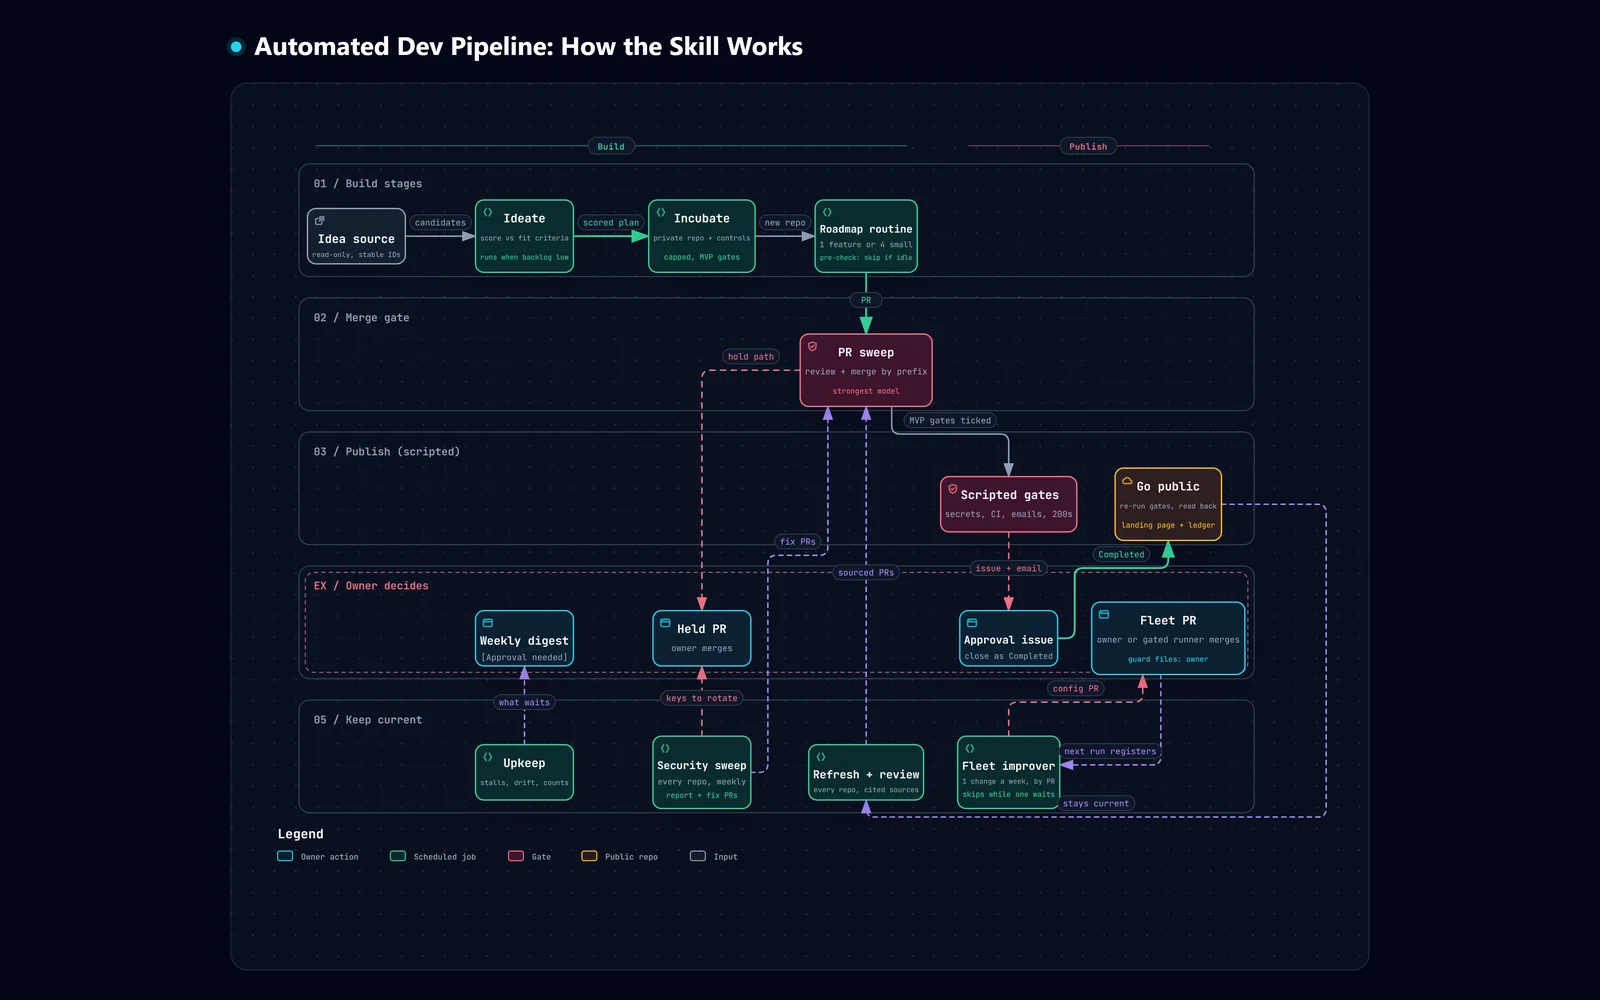
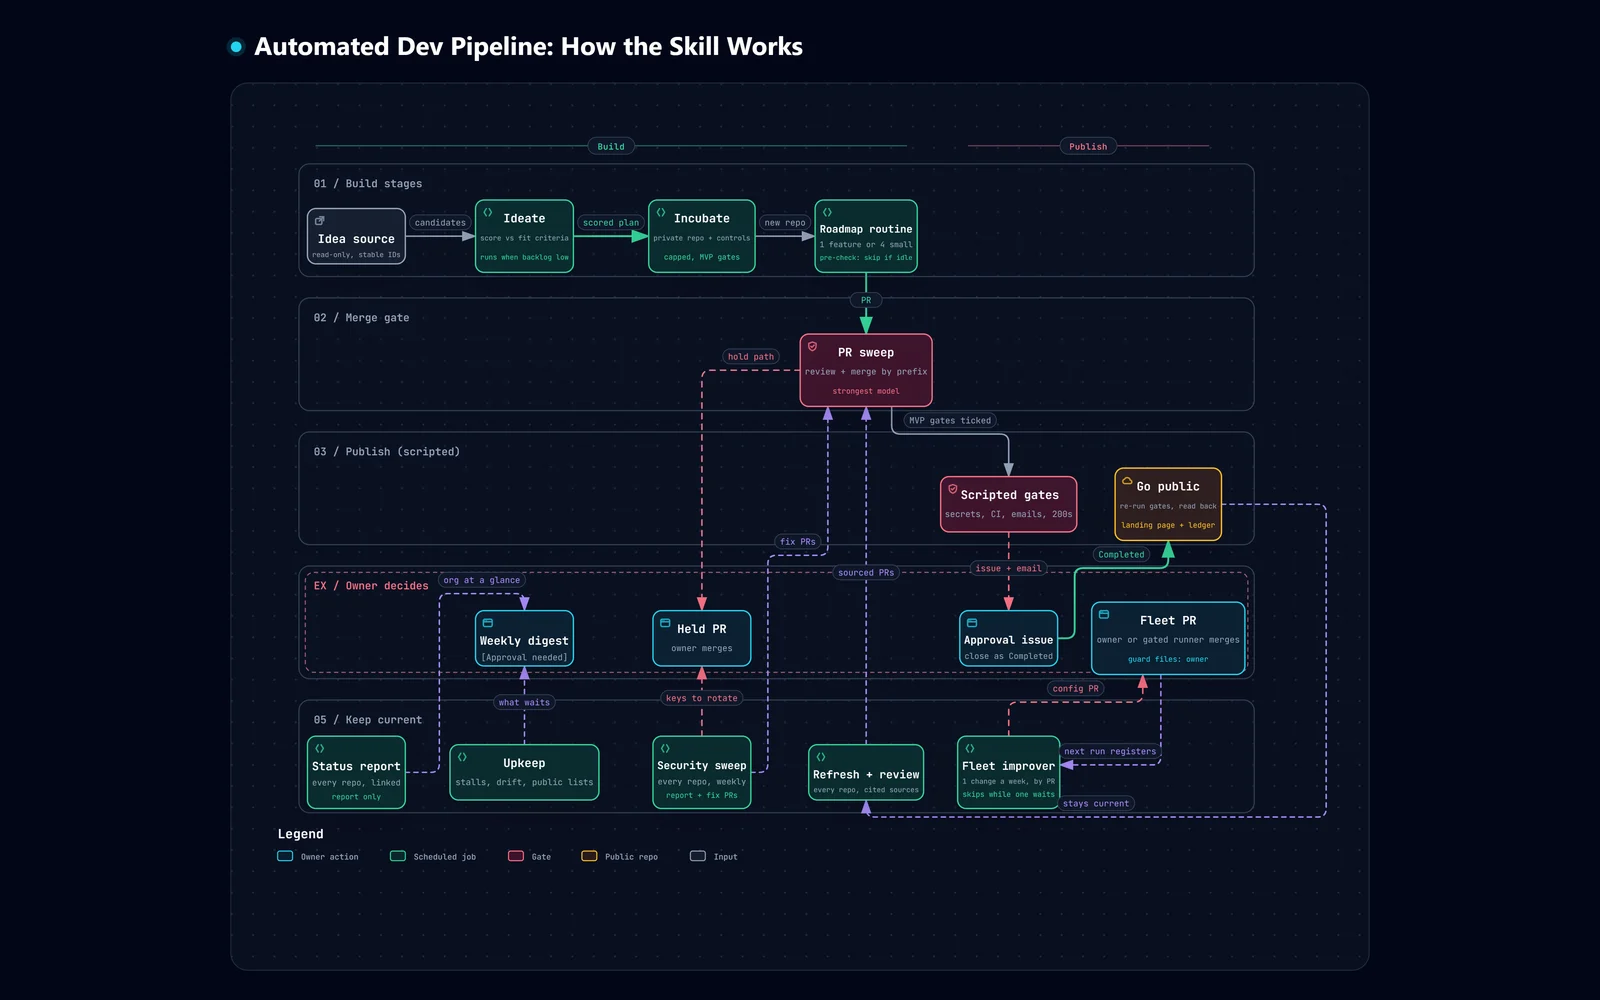
automated-dev-pipeline: add a weekly status report to keep-current
keeping-current.md describes a report-only weekly page across every repo: a script gathers
per-repo facts (repo, homepage and app URLs that answered 200, CI, PRs, issues, creation
date, open release gates); the session classifies health by written thresholds and answers
per project whether it is public and what is left on its roadmap, plus almost-public and new
repos. Upkeep's mechanism also covers the account or org profile README, by an owner-merged PR.
SKILL.md, the Archify source, pipeline-flow.svg, the interactive page and the card image are
updated to match.

Changed region(s): [[0.1875, 0.713, 0.375, 0.837], [0.2812, 0.558, 0.3438, 0.589]]

diff --git a/site/assets/diagrams/automated-dev-pipeline-workflow.html b/site/assets/diagrams/automated-dev-pipeline-workflow.html
@@ -5290,8 +5290,9 @@ OTHER DEALINGS IN THE FONT SOFTWARE.
         <path data-edge-from="security" data-edge-to="held" data-edge-label="keys to rotate" data-edge-key="10" data-edge-id="e-rotate" data-composition-routing="workflow-v2-auto" data-edge-role="async" data-composition-points="418.8,590;418.8,524" d="M 418.8 590 L 418.8 524" class="a-security" data-animate="edge" style="--step:12" stroke-width="1.4" marker-end="url(#arrowhead-security)"/>
         <path data-edge-from="security" data-edge-to="sweep" data-edge-label="fix PRs" data-edge-key="11" data-edge-id="e-secfix" data-composition-routing="workflow-v2-auto" data-edge-role="return" data-composition-points="464.8,624;480.8,624;480.8,420;537.2,420;537.2,280" d="M 464.8 624 L 472.8 624 Q 480.8 624 480.8 616 L 480.8 428 Q 480.8 420 488.8 420 L 529.2 420 Q 537.2 420 537.2 412 L 537.2 280" class="a-dashed" data-animate="edge" style="--step:12" stroke-width="1.4" marker-end="url(#arrowhead-dashed)"/>
         <path data-edge-from="upkeep" data-edge-to="digest" data-edge-label="what waits" data-edge-key="12" data-edge-id="e-stalls" data-composition-routing="workflow-v2-auto" data-edge-role="async" data-composition-points="252,598;252,524" d="M 252 598 L 252 524" class="a-dashed" data-animate="edge" style="--step:12" stroke-width="1.4" marker-end="url(#arrowhead-dashed)"/>
-        <path data-edge-from="flip" data-edge-to="refresh" data-edge-label="stays current" data-edge-key="13" data-edge-id="e-stay" data-composition-routing="workflow-v2-auto" data-edge-role="async" data-composition-points="907.2,372;1005.6,372;1005.6,666;573.2,666;573.2,650" d="M 907.2 372 L 997.6 372 Q 1005.6 372 1005.6 380 L 1005.6 658 Q 1005.6 666 997.6 666 L 581.2 666 Q 573.2 666 573.2 658 L 573.2 650" class="a-dashed" data-animate="edge" style="--step:12" stroke-width="1.4" marker-end="url(#arrowhead-dashed)"/>
-        <path data-edge-from="approve" data-edge-to="flip" data-edge-label="Completed" data-edge-key="14" data-edge-id="e-yes" data-composition-routing="workflow-v2-auto" data-edge-role="" data-composition-points="753.2,498;769.2,498;769.2,432;857.2,432;857.2,406" d="M 753.2 498 L 761.2 498 Q 769.2 498 769.2 490 L 769.2 440 Q 769.2 432 777.2 432 L 849.2 432 Q 857.2 432 857.2 424 L 857.2 406" class="a-emphasis" data-animate="edge" style="--step:6" stroke-width="1.8" marker-end="url(#arrowhead-emphasis)"/>
+        <path data-edge-from="status" data-edge-to="digest" data-edge-label="org at a glance" data-edge-key="13" data-edge-id="e-status" data-composition-routing="workflow-v2-auto" data-edge-role="async" data-composition-points="140,624;172,624;172,456;252,456;252,472" d="M 140 624 L 164 624 Q 172 624 172 616 L 172 464 Q 172 456 180 456 L 244 456 Q 252 456 252 464 L 252 472" class="a-dashed" data-animate="edge" style="--step:12" stroke-width="1.4" marker-end="url(#arrowhead-dashed)"/>
+        <path data-edge-from="flip" data-edge-to="refresh" data-edge-label="stays current" data-edge-key="14" data-edge-id="e-stay" data-composition-routing="workflow-v2-auto" data-edge-role="async" data-composition-points="907.2,372;1005.6,372;1005.6,666;573.2,666;573.2,650" d="M 907.2 372 L 997.6 372 Q 1005.6 372 1005.6 380 L 1005.6 658 Q 1005.6 666 997.6 666 L 581.2 666 Q 573.2 666 573.2 658 L 573.2 650" class="a-dashed" data-animate="edge" style="--step:12" stroke-width="1.4" marker-end="url(#arrowhead-dashed)"/>
+        <path data-edge-from="approve" data-edge-to="flip" data-edge-label="Completed" data-edge-key="15" data-edge-id="e-yes" data-composition-routing="workflow-v2-auto" data-edge-role="" data-composition-points="753.2,498;769.2,498;769.2,432;857.2,432;857.2,406" d="M 753.2 498 L 761.2 498 Q 769.2 498 769.2 490 L 769.2 440 Q 769.2 432 777.2 432 L 849.2 432 Q 857.2 432 857.2 424 L 857.2 406" class="a-emphasis" data-animate="edge" style="--step:6" stroke-width="1.8" marker-end="url(#arrowhead-emphasis)"/>
 
         <!-- Nodes -->
         <g id="node-ideas" data-node-id="ideas" data-node-label="Idea source" tabindex="0" role="button" aria-label="Focus Idea source, read-only, stable IDs, Build stages › Build" aria-pressed="false" data-node-kind="external" data-node-sublabel="read-only, stable IDs" data-node-context="Build stages › Build">
@@ -5436,15 +5437,27 @@ OTHER DEALINGS IN THE FONT SOFTWARE.
         <text data-detail="fine" x="857.2" y="520" class="t-frontend" font-size="7" text-anchor="middle">guard files: owner</text>
         </g>
 
-        <g id="node-upkeep" data-node-id="upkeep" data-node-label="Upkeep" tabindex="0" role="button" aria-label="Focus Upkeep, stalls, drift, counts, Keep current › Build" aria-pressed="false" data-node-kind="backend" data-node-sublabel="stalls, drift, counts" data-node-context="Keep current › Build">
-          <title>Upkeep · stalls, drift, counts · Keep current › Build</title>
-          <rect x="206" y="598" width="92" height="52" rx="8" class="c-mask"/>
-          <rect x="206" y="598" width="92" height="52" rx="8" class="c-backend" data-animate="node" style="--step:12" stroke-width="1.5"/>
-          <g aria-hidden="true" data-semantic-sigil="backend" class="semantic-sigil s-backend" transform="translate(212 604) scale(0.6875)">
+        <g id="node-status" data-node-id="status" data-node-label="Status report" tabindex="0" role="button" aria-label="Focus Status report, every repo, linked, Keep current › Build" aria-pressed="false" data-node-kind="backend" data-node-sublabel="every repo, linked" data-node-tag="report only" data-node-context="Keep current › Build">
+          <title>Status report · every repo, linked · Keep current › Build · report only</title>
+          <rect x="48" y="590" width="92" height="68" rx="8" class="c-mask"/>
+          <rect x="48" y="590" width="92" height="68" rx="8" class="c-backend" data-animate="node" style="--step:12" stroke-width="1.5"/>
+          <g aria-hidden="true" data-semantic-sigil="backend" class="semantic-sigil s-backend" transform="translate(54 596) scale(0.6875)">
+            <path d="M6 3 3 8l3 5M10 3l3 5-3 5"/>
+          </g>
+          <text data-node-label="" data-detail-anchor="" x="94" y="621.9" class="t-primary" font-size="10.7" font-weight="600" text-anchor="middle">Status report</text>
+          <text data-detail="context" x="94" y="636.4" class="t-muted" font-size="7.7" text-anchor="middle">every repo, linked</text>
+        <text data-detail="fine" x="94" y="649.2" class="t-backend" font-size="7" text-anchor="middle">report only</text>
+        </g>
+
+        <g id="node-upkeep" data-node-id="upkeep" data-node-label="Upkeep" tabindex="0" role="button" aria-label="Focus Upkeep, stalls, drift, public lists, Keep current › Build" aria-pressed="false" data-node-kind="backend" data-node-sublabel="stalls, drift, public lists" data-node-context="Keep current › Build">
+          <title>Upkeep · stalls, drift, public lists · Keep current › Build</title>
+          <rect x="182" y="598" width="140" height="52" rx="8" class="c-mask"/>
+          <rect x="182" y="598" width="140" height="52" rx="8" class="c-backend" data-animate="node" style="--step:12" stroke-width="1.5"/>
+          <g aria-hidden="true" data-semantic-sigil="backend" class="semantic-sigil s-backend" transform="translate(188 604) scale(0.6875)">
             <path d="M6 3 3 8l3 5M10 3l3 5-3 5"/>
           </g>
           <text data-node-label="" data-detail-anchor="" x="252" y="619" class="t-primary" font-size="11" font-weight="600" text-anchor="middle">Upkeep</text>
-          <text data-detail="context" x="252" y="636" class="t-muted" font-size="6.6" text-anchor="middle">stalls, drift, counts</text>
+          <text data-detail="context" x="252" y="636" class="t-muted" font-size="8" text-anchor="middle">stalls, drift, public lists</text>
         </g>
 
         <g id="node-security" data-node-id="security" data-node-label="Security sweep" tabindex="0" role="button" aria-label="Focus Security sweep, every repo, weekly, Keep current › Build" aria-pressed="false" data-node-kind="backend" data-node-sublabel="every repo, weekly" data-node-tag="report + fix PRs" data-node-context="Keep current › Build">
@@ -5535,11 +5548,15 @@ OTHER DEALINGS IN THE FONT SOFTWARE.
           <rect x="223" y="551" width="58" height="14" rx="3" class="c-mask"/>
           <text x="252" y="561" class="t-edge-dashed" font-size="8" text-anchor="middle">what waits</text>
         </g>
-        <g data-detail="context" data-edge-from="flip" data-edge-to="refresh" data-edge-label="stays current" data-edge-key="13" data-edge-id="e-stay">
+        <g data-detail="context" data-edge-from="status" data-edge-to="digest" data-edge-label="org at a glance" data-edge-key="13" data-edge-id="e-status">
+          <rect x="171" y="436" width="82" height="14" rx="3" class="c-mask"/>
+          <text x="212" y="446" class="t-edge-dashed" font-size="8" text-anchor="middle">org at a glance</text>
+        </g>
+        <g data-detail="context" data-edge-from="flip" data-edge-to="refresh" data-edge-label="stays current" data-edge-key="14" data-edge-id="e-stay">
           <rect x="753.2" y="646" width="72.4" height="14" rx="3" class="c-mask"/>
           <text x="789.4000000000001" y="656" class="t-edge-dashed" font-size="8" text-anchor="middle">stays current</text>
         </g>
-        <g data-detail="context" data-edge-from="approve" data-edge-to="flip" data-edge-label="Completed" data-edge-key="14" data-edge-id="e-yes">
+        <g data-detail="context" data-edge-from="approve" data-edge-to="flip" data-edge-label="Completed" data-edge-key="15" data-edge-id="e-yes">
           <rect x="786.6" y="412" width="53.199999999999996" height="14" rx="3" class="c-mask"/>
           <text x="813.2" y="422" class="t-edge-emphasis" font-size="8" text-anchor="middle">Completed</text>
         </g>
@@ -5754,6 +5771,7 @@ OTHER DEALINGS IN THE FONT SOFTWARE.
           <li>Yes/no checks are scripts with exit codes; the model writes, reviews, picks</li>
           <li>A pre-check logs SKIPPED and exits 0 with no session when there is no work</li>
           <li>Only PRs reach default branches, all through the one sweep</li>
+          <li>A status report gathers every repo&#39;s facts by script; the model only summarizes</li>
         </ul>
       </div>
 

diff --git a/skills/core/automation/automated-dev-pipeline/references/keeping-current.md b/skills/core/automation/automated-dev-pipeline/references/keeping-current.md
@@ -11,6 +11,7 @@ not just the ones the build stages created.
 - Five mechanisms, cheapest first
 - The refresh session
 - The security sweep
+- The status report
 - Merge rules for currency PRs
 - Cadence
 - Anti-patterns
@@ -40,7 +41,12 @@ and the least repeatable, so it gets only what the tools can't do.
 2. **The upkeep job reports.** Once a week it checks what's measurable across every repo:
    main is green, controls are on, no PR is stuck, docs match reality, every task still
    runs. It fixes only a short allow-list (a homepage URL, a count) and reports the rest.
-   Reporting is the point. Drift nobody sees never gets fixed.
+   It also keeps every public list of the repos in step (the landing page, and the account or
+   organization profile README, which no build stage touches and which goes stale first), by
+   PR. The profile is the most public page you have, so its PR waits for the owner.
+   Reporting is the point. Drift nobody sees never gets fixed. Beside it, a weekly
+   **status report** gives the owner one page on the whole fleet of repos: what stage each
+   is in and whether it is healthy. See below.
 3. **A refresh session per repo or workspace.** Research first, then fix, in one PR (design
    rule 7). This handles platforms, APIs, tooling and standards. See below.
 4. **A security sweep across every repo.** One weekly session reads what the tools found,
@@ -123,6 +129,41 @@ The session never uses, tests or prints a credential, never rotates one, never r
 history, never changes a repo setting or a deploy workflow, and never edits a repo that
 moves money; those go to the top of the owner's list with the exact command. Removing a
 leaked key from the tree does not un-leak it, so the PR says so and rotation comes first.
+
+## The status report
+
+Upkeep, the security sweep and the roadmap routines each report on their own slice. None of
+them answers the owner's first question on a Sunday: **what does the whole fleet look like,
+and which repos need me?** A weekly status report does, as one page across every active repo.
+
+**1. A script gathers the facts.** Per repo, read-only: visibility, the local folder (which
+is the lifecycle stage when clones are filed by stage), last push, latest release, the
+homepage's HTTP status, the latest CI run on the default branch (push events only, or the
+dependency bot's runs hide the real build), open PRs (how many from routines, how old the
+oldest), open issues, the creation date (so a repo new to the fleet is flagged, not
+discovered), and the roadmap's open items **above** the release heading, each by its title,
+with the owner-only ones marked, plus a count of the items after it. Add the pipeline ledger
+and the roadmap status script's output. A source that fails is `NOT READ`, never green.
+
+**2. The session classifies and summarizes, nothing else.** Each repo gets one stage and one
+health, by written thresholds so the colours mean the same every week: **red** for a failing
+default branch, a homepage that doesn't answer 200, or a routine PR stuck past the sweep's
+patience; **amber** for a repo with a roadmap but no push in a month, no open work before its
+next gate, items waiting on the owner, or a pile of open PRs. The report leads with three to
+five lines on the fleet, then the repos new this week, the ones **almost public** (private,
+a few gates left or all done and waiting on approval), red and amber with a reason each, one
+table per stage answering per project *is it public, is the roadmap done, what's left*, with a
+plain one-line status and links to the repo, its homepage and the running app. Link only URLs
+the script saw answer 200 that week (it probes the conventional app address itself), never
+ones the model builds, so the report can't send the owner to a dead or guessed page, the pipeline, what changed since last week's report, and what
+waits on the owner (pointing at the digest rather than repeating it).
+
+**3. Report only.** It opens no PRs and edits no repo, so it needs no prefix in the sweep and
+can run on a mid-tier model in a few minutes. Fixes stay with the jobs that own them. Schedule
+it after the week's sweeps, publishes and upkeep finish, so it shows the week's end state, and
+before the owner's digest. Email it with the same runner-printed HTML attachment as the
+security sweep, and let only a red repo or an unread source turn the email to *attention*.
+Unlike the per-run mail, route it to the owner's inbox: it is the one page they read weekly.
 
 ## Merge rules for currency PRs
 

diff --git a/skills/core/automation/automated-dev-pipeline/SKILL.md b/skills/core/automation/automated-dev-pipeline/SKILL.md
@@ -17,7 +17,7 @@ The pattern does three jobs. They can be adopted separately:
 |:---|:---|:---|
 | **Build** | ideate → incubate → roadmap routine → PR sweep | Ideas become private repos that grow one verified PR at a time |
 | **Publish** | graduate (scripted gates → approval → public) | A finished project goes public on a personal account or an organization, with its security controls verified |
-| **Keep current** | refresh, review, upkeep, a security sweep, and the same roadmap routines | Every repo, new or old, keeps up with its dependencies, platforms, security practice and standards |
+| **Keep current** | refresh, review, upkeep, a security sweep, a status report, and the same roadmap routines | Every repo, new or old, keeps up with its dependencies, platforms, security practice and standards, and one weekly page shows where each stands |
 
 The publish target is a parameter: a personal account works the same as an organization.
 "The landing page" is then your profile README or portfolio site, if you keep one.
@@ -36,7 +36,7 @@ writing a stage prompt.** Most of what goes wrong on a first build is already wr
 | Stand up a new pipeline, or add a stage or routine | `references/architecture.md`, then `references/stage-contracts.md` |
 | Build stages as folders inside one repo, with a site that deploys on merge | `references/architecture.md` → "The single-repo variant" |
 | Decide where ideas come from, or connect a new idea source | `references/idea-sourcing.md` |
-| Keep existing repos current, bring a stale one back up to date, or run a weekly security sweep across them | `references/keeping-current.md` |
+| Keep existing repos current, bring a stale one back up to date, run a weekly security sweep across them, or report every repo's status | `references/keeping-current.md` |
 | Audit an existing fleet (cost, overlap, safety, drift) | `references/audit-checklist.md` |
 | Operate or debug a live pipeline | That pipeline's own operator notes: file paths, parameter values, run commands. The reference implementation keeps them at `~/.claude/routines/jobs/_org-pipeline/reference-implementation.md`. If none exist, write them before changing anything |
 
@@ -56,6 +56,7 @@ ideas ──ideate──▶ approved plan ──incubate──▶ private repo +
                                                   │
                                                   ▼
    keep current: refresh + review + upkeep + security ──▶ PRs into the same sweep
+                 status report (report only) ──▶ one weekly page on every repo
 ```
 
 The full flow, as swimlanes for build, merge gate, publish, the owner's decisions and

diff --git a/resources/skill-data/core/automation/automated-dev-pipeline/README.md b/resources/skill-data/core/automation/automated-dev-pipeline/README.md
@@ -17,7 +17,7 @@ The diagram lives on the [homepage](https://agent-skills.ai-automation-tools.dev
 | **Merge gate** | One PR sweep, on the strongest model, reviews every routine's PRs by branch prefix; the runner merges what it approves after re-running the hard gates. PRs that touch a deploy path or carry a personal commit email wait for the owner |
 | **Publish (scripted)** | When every release gate is ticked, a script runs the gates (secret scan, CI, commit emails, live 200s), opens an approval issue, and goes public only after the owner closes it as Completed, re-running the gates and reading the security controls back |
 | **Owner decides** | The three places a person acts: held PRs, the approval issue, and the weekly `[Approval needed]` digest |
-| **Keep current** | Refresh and review cover every repo, published or not, with a cited source for each change, and send their PRs through the same sweep. A weekly security sweep checks every repo, sends fix PRs to the sweep and leaves leaked keys for the owner to rotate. Upkeep reports stalls, drift and counts to the digest. A fleet improver proposes one change a week to the fleet itself |
+| **Keep current** | Refresh and review cover every repo, published or not, with a cited source for each change, and send their PRs through the same sweep. A weekly security sweep checks every repo, sends fix PRs to the sweep and leaves leaked keys for the owner to rotate. Upkeep reports stalls, drift and counts to the digest, and a report-only status job emails one page on every repo's stage and health. A fleet improver proposes one change a week to the fleet itself |
 
 The four rule cards in the interactive version cover what the lanes don't: scripts decide while
 prompts judge, irreversible steps belong to a person, the runner closes the feedback loop (run

diff --git a/docs/CHANGELOG.md b/docs/CHANGELOG.md
@@ -24,6 +24,11 @@ Skills named here keep the name they had at the time. The four `-mfs` skills wer
 `business-plan-builder`, `email-template-mfs` → `html-email-templates`,
 `project-hub-scaffold-mfs` → `project-hub-scaffold`.
 
+## 2026-11-04
+
+**Changed**
+- `automated-dev-pipeline`: keep-current gains a weekly status report, one report-only page on every active repo's stage and health. `references/keeping-current.md` describes it (a script gathers per-repo facts and the roadmap status; the session classifies each repo Green / Amber / Red by written thresholds and summarizes; no PRs, scheduled after the weekend's sweeps and publishes). `SKILL.md`, the Archify source (a Status report node in the keep-current lane, feeding the owner's digest), `pipeline-flow.svg`, the interactive page and the card image are updated from it. The report answers per project whether it is public, whether its roadmap is done and what's left, lists the almost-public and new repos, and links each repo, homepage and app only when the script saw it answer 200. Upkeep's mechanism also covers the account or organization profile README, by an owner-merged PR.
+
 ## 2026-11-01
 
 **Changed**
